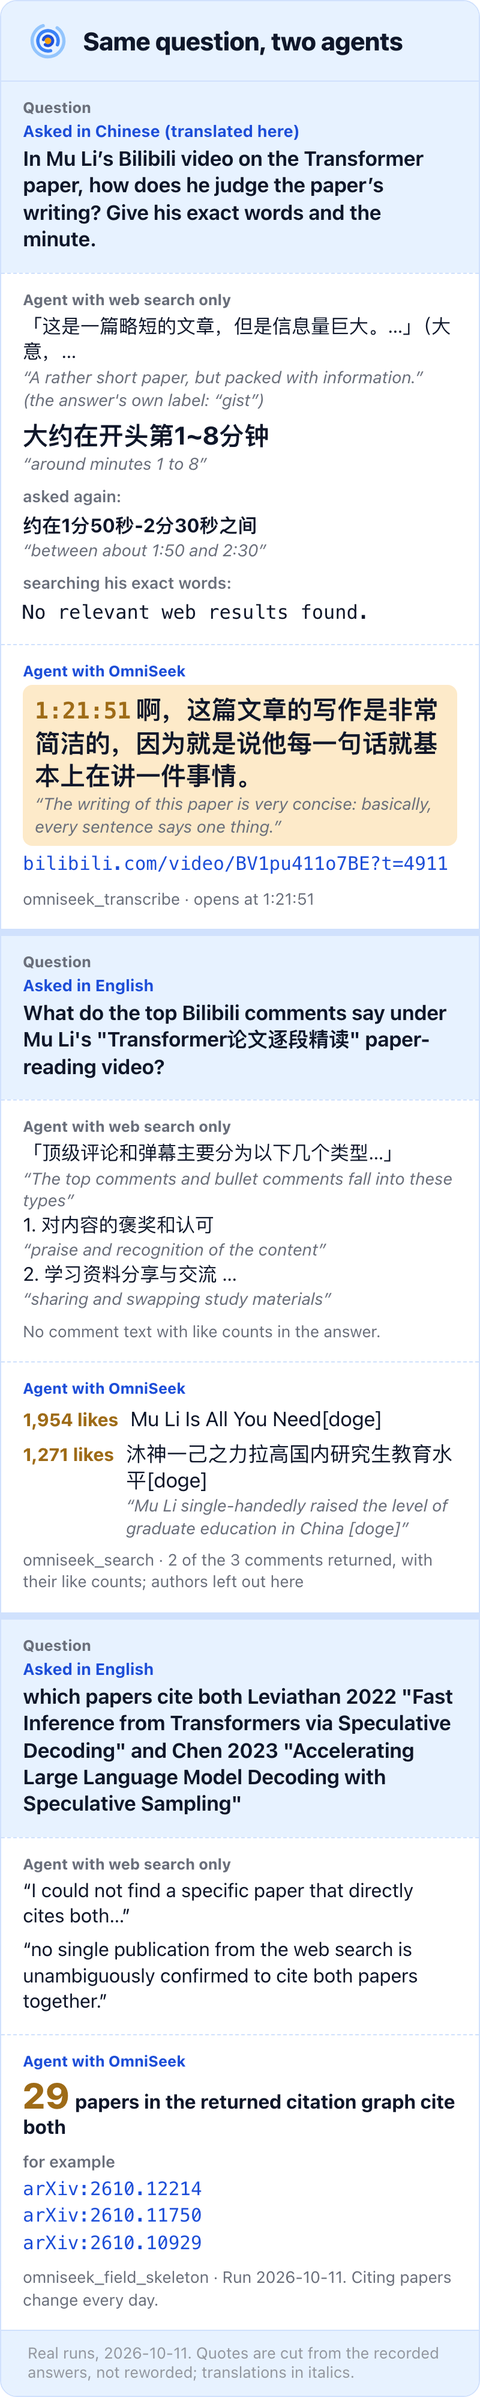
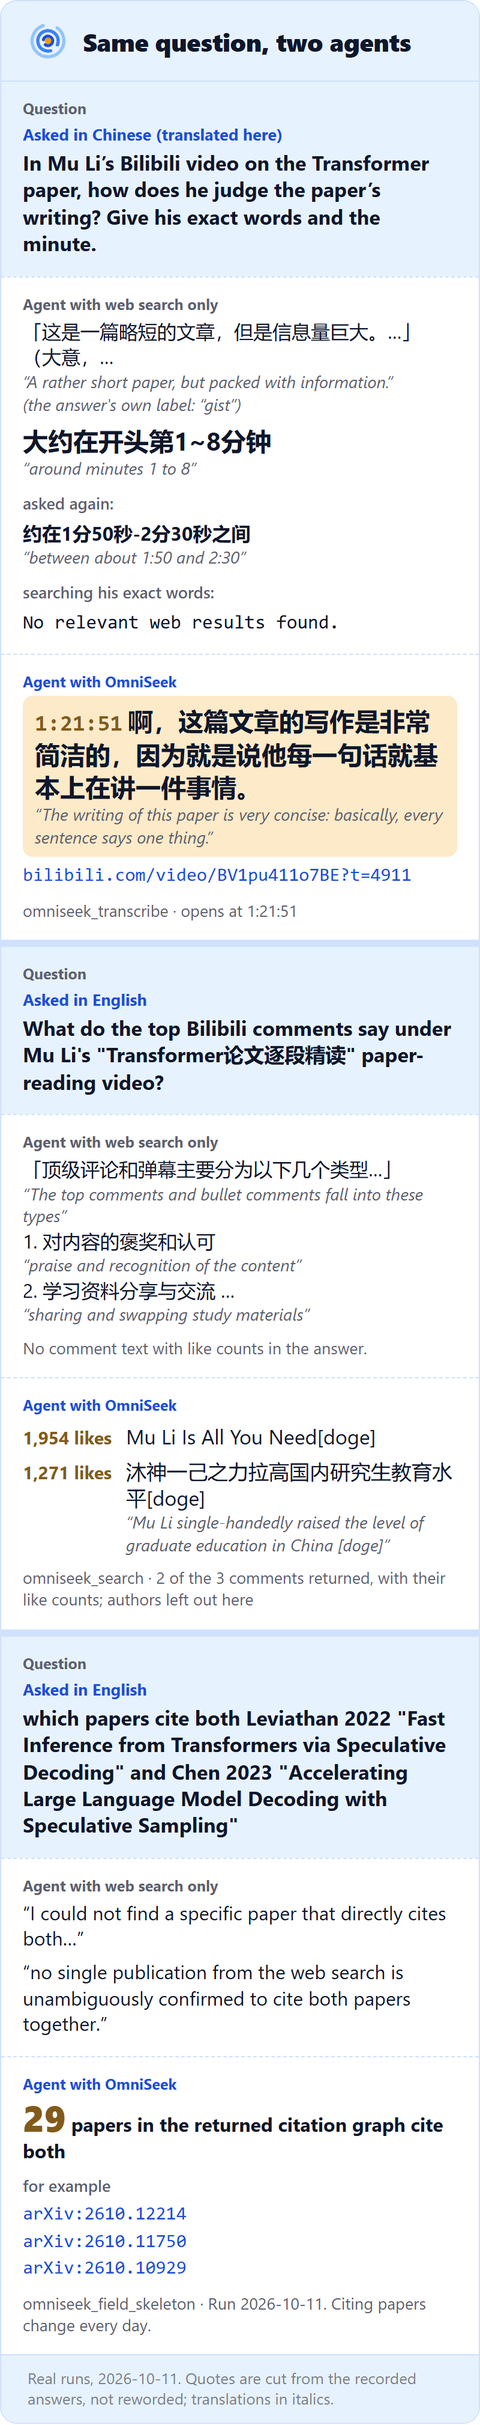
Demo figures: faint text brought up to readable contrast, measured by a script
The text the comparison GIF and the infographic set back on purpose was too faint: a step that is no
longer current was drawn at half opacity, so its small lines (the "gist" label, translations, the
calls) measured 2.01:1 on the light card and 2.81:1 on the dark one, and its answers 3.41:1 on light.
The light theme's translation on the amber highlight was 4.24:1, the amber timestamp there 3.90:1,
the install note 2.94:1 and the infographic footer 2.60:1.

assets/masters/check_contrast.py renders both generators in every storyboard state and both themes
and measures each line of text against the card under it (computed colours, opacity and
backgrounds). Floors: 4.5:1 for body text, including the main line of a step that is no longer
current (the finished frame most readers see first dims the left column's answers); 3:1 for text
meant to step back. Its first reading matched the earlier pixel measurement of the GIF (2.01 vs
1.98 light, 2.81 vs 2.74 dark).

A step that is no longer current now steps back by colour instead of opacity (--fg-dim,
--muted-dim, --fn-dim), light --muted 62% to 68% navy, --faint 45% to 55%, light amber 62% to 50%.
Lowest ratios now: light 3.53 (infographic footer, floor 3) and 4.82 (dimmed link, floor 4.5);
dark 4.04 and 4.98. Active text still reads clearly above the stepped-back text (17.9 vs 7.1 for
the main lines on light).

The generators also name the Windows fonts (Microsoft YaHei, Consolas) after the Mac ones, so a
[…]

Changed region(s): [[0.0312, 0.0, 0.9375, 0.9945], [0.5312, 0.8702, 0.8438, 0.9013], [0.875, 0.8702, 0.9375, 0.9013]]

diff --git a/site/index.html b/site/index.html
@@ -53,10 +53,10 @@
 
   <div class="figure compare" id="compare">
     <picture>
-      <source media="(prefers-color-scheme: dark) and (max-width: 600px)" srcset="https://raw.githubusercontent.com/Battam1111/omniseek/main/assets/demo/compare-table-en-dark-narrow.png?v=2026-10-11b">
-      <source media="(max-width: 600px)" srcset="https://raw.githubusercontent.com/Battam1111/omniseek/main/assets/demo/compare-table-en-light-narrow.png?v=2026-10-11b">
-      <source media="(prefers-color-scheme: dark)" srcset="https://raw.githubusercontent.com/Battam1111/omniseek/main/assets/demo/compare-table-en-dark.png?v=2026-10-11b">
-      <img src="https://raw.githubusercontent.com/Battam1111/omniseek/main/assets/demo/compare-table-en-light.png?v=2026-10-11b" loading="lazy" alt="Three questions, two agents. One: Mu Li's exact words on the Transformer paper's writing, and the minute. Web search gives a paraphrase and around minutes 1 to 8; OmniSeek quotes him at 1:21:51 with a link that opens there. Two: the top Bilibili comments under that video. Web search sorts them into types with no comment text; OmniSeek returns the comments with their like counts, 1,954 and 1,271. Three: papers that cite both Leviathan 2022 and Chen 2023 on speculative decoding. Web search could not confirm one; OmniSeek's citation graph has 29.">
+      <source media="(prefers-color-scheme: dark) and (max-width: 600px)" srcset="https://raw.githubusercontent.com/Battam1111/omniseek/main/assets/demo/compare-table-en-dark-narrow.png?v=2026-10-11d">
+      <source media="(max-width: 600px)" srcset="https://raw.githubusercontent.com/Battam1111/omniseek/main/assets/demo/compare-table-en-light-narrow.png?v=2026-10-11d">
+      <source media="(prefers-color-scheme: dark)" srcset="https://raw.githubusercontent.com/Battam1111/omniseek/main/assets/demo/compare-table-en-dark.png?v=2026-10-11d">
+      <img src="https://raw.githubusercontent.com/Battam1111/omniseek/main/assets/demo/compare-table-en-light.png?v=2026-10-11d" loading="lazy" alt="Three questions, two agents. One: Mu Li's exact words on the Transformer paper's writing, and the minute. Web search gives a paraphrase and around minutes 1 to 8; OmniSeek quotes him at 1:21:51 with a link that opens there. Two: the top Bilibili comments under that video. Web search sorts them into types with no comment text; OmniSeek returns the comments with their like counts, 1,954 and 1,271. Three: papers that cite both Leviathan 2022 and Chen 2023 on speculative decoding. Web search could not confirm one; OmniSeek's citation graph has 29.">
     </picture>
     <details class="watch">
       <summary>Watch the first question as a 38-second video</summary>

diff --git a/assets/masters/check_contrast.py b/assets/masters/check_contrast.py
@@ -1,0 +1,204 @@
+"""Contrast check for the comparison GIF/video frames and the infographic: every piece of text against
+the card it sits on, measured in the rendered page (computed colours, opacity and backgrounds, the
+way Chromium paints them), in every state of the storyboard and both themes.
+
+    python assets/masters/check_contrast.py              # report, exit 1 if anything is below its floor
+    python assets/masters/check_contrast.py --masters D  # measure the generators in directory D instead
+
+Floors (WCAG 2 contrast ratio): body text 4.5:1. Text that is meant to step back is 3:1: the steps
+that are no longer current (dimmed) except their main line, the install note under the right column,
+the "real runs" line on the end card and the infographic's footer. The main line of a dimmed step
+(the answer itself) stays at 4.5:1, because the finished frame that most readers see first dims the
+left column's answers. Text in the faded strip at the top of a column (it scrolls away) is not
+counted.
+
+Needs playwright (with its Chromium). Prints the lowest ratio per kind of text.
+"""
+import argparse
+import importlib
+import json
+import re
+import sys
+import tempfile
+from pathlib import Path
+
+HERE = Path(__file__).resolve().parent
+BODY, SOFT = 4.5, 3.0
+
+JS = r"""
+(stageSel) => {
+  const stage = document.querySelector(stageSel);
+  const out = [];
+  const walker = document.createTreeWalker(stage, NodeFilter.SHOW_TEXT);
+  const seen = new Set();
+  for (let n = walker.nextNode(); n; n = walker.nextNode()) {
+    if (!n.textContent.trim()) continue;
+    const el = n.parentElement;
+    if (seen.has(el)) continue;
+    seen.add(el);
+    const r = el.getBoundingClientRect();
+    if (r.width === 0 || r.height === 0) continue;
+    let hidden = false;
+    for (let e = el; e; e = e.parentElement) {
+      const s = getComputedStyle(e);
+      if (s.display === 'none' || s.visibility === 'hidden') { hidden = true; break; }
+    }
+    if (hidden) continue;
+    const feed = el.closest('.feed');
+    if (feed && r.bottom < feed.getBoundingClientRect().top + 34) continue;   // faded strip
+    const chain = [];
+    for (let e = el; e && e !== stage.parentElement; e = e.parentElement) {
+      const s = getComputedStyle(e);
+      chain.unshift({bg: s.backgroundColor, op: parseFloat(s.opacity)});
+    }
+    out.push({text: n.textContent.trim().slice(0, 40), color: getComputedStyle(el).color, chain,
+              tags: [...(function* () { for (let e = el; e && e !== stage; e = e.parentElement) yield (e.className || '').toString(); })()]});
+  }
+  return out;
+}
+"""
+
+
+def parse(c: str):
+    """CSS colour string from getComputedStyle -> (r, g, b, a) with r, g, b in 0..1."""
+    c = c.strip()
+    m = re.fullmatch(r"rgba?\(([^)]+)\)", c)
+    if m:
+        p = [x.strip() for x in m.group(1).replace("/", ",").split(",")]
+        r, g, b = (float(x) / 255 for x in p[:3])
+        a = float(p[3]) if len(p) > 3 else 1.0
+        return r, g, b, a
+    m = re.fullmatch(r"color\(srgb ([^)]+)\)", c)
+    if m:
+        p = m.group(1).replace("/", " ").split()
+        r, g, b = (float(x) for x in p[:3])
+        a = float(p[3]) if len(p) > 3 else 1.0
+        return r, g, b, a
+    raise ValueError(f"colour not understood: {c!r}")
+
+
+def over(src, dst):
+    a = src[3]
+    return tuple(src[i] * a + dst[i] * (1 - a) for i in range(3))
+
+
+def paint(chain, k, under, text_color):
+    """The pixel colour after painting chain[k:] over `under`; text_color None = background only."""
+    node = chain[k]
+    c = over(parse(node["bg"]), under)
+    if k == len(chain) - 1:
+        if text_color is not None:
+            c = over(parse(text_color), c)
+    else:
+        c = paint(chain, k + 1, c, text_color)
+    op = node["op"]
+    if op < 1:
+        c = tuple(c[i] * op + under[i] * (1 - op) for i in range(3))
+    return c
+
+
+def lum(c):
+    lin = [x / 12.92 if x <= 0.04045 else ((x + 0.055) / 1.055) ** 2.4 for x in c]
+    return 0.2126 * lin[0] + 0.7152 * lin[1] + 0.0722 * lin[2]
+
+
+def ratio(a, b):
+    la, lb = sorted((lum(a), lum(b)), reverse=True)
+    return (la + 0.05) / (lb + 0.05)
+
+
+SECONDARY = {"call", "lbl", "gl", "badge", "fn", "at"}
+
+
+def kind(item, page_kind):
+    classes = [t.split() for t in item["tags"]]          # the text's element first, out to the stage
+    flat = {c for cs in classes for c in cs}
+    own = next((c for cs in classes for c in cs if c not in ("mono", "h")), "text")
+    if page_kind == "table":
+        return ("soft", "footer") if "foot" in flat else ("body", own)
+    if "extra" in flat:
+        return "soft", "install note"
+    if "run" in flat:
+        return "soft", "end card: real runs"
+    step = next((i for i, cs in enumerate(classes) if "step" in cs), None)
+    if step is not None and "dim" in classes[step]:
+        if any(c in SECONDARY for cs in classes[:step] for c in cs):
+            return "soft", f"dimmed step, {own}"
+        return "body", f"dimmed step main line, {own}"
+    return "body", own
+
+
+def measure(masters: Path, langs):
+    sys.path.insert(0, str(masters))
+    D = importlib.import_module("gen_compare_demo")
+    I = importlib.import_module("gen_compare_infographic")
+    from playwright.sync_api import sync_playwright
+    worst = {}
+    with tempfile.TemporaryDirectory() as td, sync_playwright() as p:
+        b = D.browser(p)
+        for theme in ("light", "dark"):
+            page_rgb = tuple(int(D.THEMES[theme]["page"][i:i + 2], 16) / 255 for i in (1, 3, 5))
+            for lang in langs:
+                if lang not in D.T:
+                    continue
+                ctx = b.new_context(viewport={"width": D.W + 20, "height": D.GIF_H + 20})
+                pg = ctx.new_page()
+                f = Path(td) / "demo.html"
+                f.write_text(D.page_html(lang, theme, D.W, D.GIF_H, False), encoding="utf-8")
+                pg.goto(f.as_uri())
+                pg.wait_for_timeout(300)
+                for i, (st, _) in enumerate(D.plan(False)):
+                    pg.evaluate(D.APPLY, [st, D.T[lang]["cap"]])
+                    for item in pg.evaluate(JS, "#stage"):
+                        bg = paint(item["chain"], 0, page_rgb, None)
+                        fg = paint(item["chain"], 0, page_rgb, item["color"])
+                        k, label = kind(item, "demo")
+                        r = ratio(fg, bg)
+                        key = ("demo", theme, k, label)
+                        if key not in worst or r < worst[key][0]:
+                            worst[key] = (r, item["text"], f"{lang} state {i}")
+                ctx.close()
+                if lang not in I.T:
+                    continue
+                ctx = b.new_context(viewport={"width": I.WIDE + 20, "height": 800})
+                pg = ctx.new_page()
+                f = Path(td) / "table.html"
+                f.write_text(I.page(lang, theme, I.WIDE, False), encoding="utf-8")
+                pg.goto(f.as_uri())
+                pg.wait_for_timeout(300)
+                for item in pg.evaluate(JS, "#stage"):
+                    bg = paint(item["chain"], 0, page_rgb, None)
+                    fg = paint(item["chain"], 0, page_rgb, item["color"])
+                    k, label = kind(item, "table")
+                    r = ratio(fg, bg)
+                    key = ("table", theme, k, label)
+                    if key not in worst or r < worst[key][0]:
+                        worst[key] = (r, item["text"], lang)
+                ctx.close()
+        b.close()
+    return worst
+
+
+def main():
+    ap = argparse.ArgumentParser()
+    ap.add_argument("--masters", type=Path, default=HERE)
+    ap.add_argument("--json", type=Path)
+    ap.add_argument("--langs", default="en,zh,ja")
+    a = ap.parse_args()
+    worst = measure(a.masters.resolve(), a.langs.split(","))
+    bad = 0
+    print(f"{'figure':6} {'theme':5} {'kind':4} {'floor':>5} {'lowest':>6}  text kind (where)")
+    for (fig, theme, k, label), (r, text, where) in sorted(worst.items(), key=lambda kv: (kv[0][0], kv[0][1], kv[1][0])):
+        floor = BODY if k == "body" else SOFT
+        ok = r >= floor
+        bad += not ok
+        print(f"{fig:6} {theme:5} {k:4} {floor:5.1f} {r:6.2f}{'' if ok else ' LOW'}  {label}: {text!r} ({where})")
+    if a.json:
+        a.json.write_text(json.dumps({" | ".join(k): v for k, v in worst.items()}, ensure_ascii=False, indent=1),
+                          encoding="utf-8")
+    print(f"\n{bad} below the floor" if bad else "\nall text at or above its floor")
+    return 1 if bad else 0
+
+
+if __name__ == "__main__":
+    sys.exit(main())

diff --git a/assets/masters/gen_compare_demo.py b/assets/masters/gen_compare_demo.py
@@ -213,8 +213,11 @@ THEMES = {
   --bar: color-mix(in srgb, #93C5FD 22%, #FFFFFF);
   --line: color-mix(in srgb, #3B82F6 24%, #FFFFFF);
   --fg: #0F172A;
-  --muted: color-mix(in srgb, #0F172A 62%, #FFFFFF);
-  --faint: color-mix(in srgb, #0F172A 45%, #FFFFFF);
+  --muted: color-mix(in srgb, #0F172A 68%, #FFFFFF);
+  --faint: color-mix(in srgb, #0F172A 55%, #FFFFFF);
+  --fg-dim: color-mix(in srgb, #0F172A 72%, #FFFFFF);
+  --muted-dim: color-mix(in srgb, #0F172A 52%, #FFFFFF);
+  --fn-dim: color-mix(in srgb, #1D4ED8 84%, #FFFFFF);
   --fn: #1D4ED8;
   --hl: color-mix(in srgb, #F59E0B 22%, #FFFFFF);
   --amber: #B45309;
@@ -228,15 +231,19 @@ THEMES = {
   --fg: color-mix(in srgb, #FFFFFF 94%, #0F172A);
   --muted: color-mix(in srgb, #FFFFFF 64%, #0F172A);
   --faint: color-mix(in srgb, #FFFFFF 48%, #0F172A);
+  --fg-dim: color-mix(in srgb, #FFFFFF 64%, #0F172A);
+  --muted-dim: color-mix(in srgb, #FFFFFF 46%, #0F172A);
+  --fn-dim: color-mix(in srgb, #93C5FD 70%, #0F172A);
   --fn: #93C5FD;
   --hl: color-mix(in srgb, #F59E0B 24%, #0F172A);
   --amber: #F59E0B;
   --badge: color-mix(in srgb, #3B82F6 22%, #0F172A);
   --ring3: #2563EB;"""},
 }
-# --amber on light pages is the brand amber mixed toward navy for contrast on white.
+# --amber on light pages is the brand amber mixed toward navy for contrast on white and on the
+# amber highlight (at least 4.5:1, see check_contrast.py).
 THEMES["light"]["css"] = THEMES["light"]["css"].replace(
-    "--amber: #B45309;", "--amber: color-mix(in srgb, #F59E0B 62%, #0F172A);")
+    "--amber: #B45309;", "--amber: color-mix(in srgb, #F59E0B 50%, #0F172A);")
 
 MARK = """<svg viewBox="0 0 200 200" xmlns="http://www.w3.org/2000/svg">
   <circle cx="100" cy="100" r="78" fill="none" stroke="#93C5FD" stroke-width="16" stroke-linecap="round" stroke-dasharray="416 74" transform="rotate(-55 100 100)"/>
@@ -254,9 +261,9 @@ html, body {{ background:transparent; }}
 #stage {{ {css}
   position:relative; width:{w}px; height:{h}px; background:var(--bg); border:1px solid var(--line);
   border-radius:14px; overflow:hidden; display:flex; flex-direction:column; color:var(--fg);
-  font-family:-apple-system,BlinkMacSystemFont,"SF Pro Text","Segoe UI","Helvetica Neue",Arial,"PingFang SC","Hiragino Sans GB",sans-serif;
+  font-family:-apple-system,BlinkMacSystemFont,"SF Pro Text","Segoe UI","Helvetica Neue",Arial,"PingFang SC","Hiragino Sans GB","Microsoft YaHei",sans-serif;
   -webkit-font-smoothing:antialiased; }}
-.mono {{ font-family:ui-monospace,"SF Mono",Menlo,"PingFang SC",monospace; }}
+.mono {{ font-family:ui-monospace,"SF Mono",Menlo,Consolas,"PingFang SC","Microsoft YaHei",monospace; }}
 .q {{ padding:14px 18px 12px; border-bottom:1px solid var(--line); }}
 .q .ask {{ font-size:15px; color:var(--muted); font-weight:600; }}
 .q .text {{ font-size:{qsize}px; font-weight:700; line-height:1.28; margin-top:3px; letter-spacing:-.005em; }}
@@ -270,7 +277,9 @@ html, body {{ background:transparent; }}
   justify-content:flex-end; padding:6px 14px 10px;
   -webkit-mask-image:linear-gradient(to bottom, transparent 0, #000 34px); }}
 .step {{ margin-top:10px; transition:none; }}
-.step.dim {{ opacity:.5; }}
+/* A step that is no longer current steps back by colour, not opacity: its main line stays at
+   4.5:1 or more and its smaller lines at 3:1 or more against the card (check_contrast.py). */
+.step.dim {{ --fg:var(--fg-dim); --muted:var(--muted-dim); --fn:var(--fn-dim); color:var(--fg); }}
 .call {{ font-size:15px; color:var(--muted); line-height:1.35; overflow-wrap:anywhere; }}
 .call .fn {{ color:var(--fn); font-weight:650; }}
 .lbl {{ font-size:16px; color:var(--muted); font-weight:600; }}

diff --git a/assets/masters/gen_compare_infographic.py b/assets/masters/gen_compare_infographic.py
@@ -74,8 +74,8 @@ html, body { background:transparent; }
 #stage { %(theme)s
   width:%(w)spx; background:var(--bg); border:1px solid var(--line); border-radius:14px; overflow:hidden;
   color:var(--fg); -webkit-font-smoothing:antialiased;
-  font-family:-apple-system,BlinkMacSystemFont,"SF Pro Text","Segoe UI","Helvetica Neue",Arial,"PingFang SC","Hiragino Sans GB",sans-serif; }
-.mono { font-family:ui-monospace,"SF Mono",Menlo,"PingFang SC",monospace; }
+  font-family:-apple-system,BlinkMacSystemFont,"SF Pro Text","Segoe UI","Helvetica Neue",Arial,"PingFang SC","Hiragino Sans GB","Microsoft YaHei",sans-serif; }
+.mono { font-family:ui-monospace,"SF Mono",Menlo,Consolas,"PingFang SC","Microsoft YaHei",monospace; }
 .top { display:flex; align-items:center; gap:12px; padding:16px 22px; border-bottom:1px solid var(--line); background:var(--bar); }
 .top svg { width:34px; height:34px; }
 .top h1 { font-size:24px; font-weight:800; letter-spacing:-.01em; }

diff --git a/docs/compare.zh.md b/docs/compare.zh.md
@@ -3,13 +3,13 @@
 2026-10-11，我们把同样三个问题分别问了两个 Agent：一个只有自带的网页搜索，一个装了 OmniSeek。下面每一句引文都从记录下来的回答里原样截取，没有改写。
 
 <p align="center">
-  <a href="https://raw.githubusercontent.com/Battam1111/omniseek/main/assets/demo/compare-table-zh-light.png?v=2026-10-11b#gh-light-mode-only"><picture>
-    <source media="(max-width: 600px)" srcset="https://raw.githubusercontent.com/Battam1111/omniseek/main/assets/demo/compare-table-zh-light-narrow.png?v=2026-10-11b#gh-light-mode-only">
-    <img src="https://raw.githubusercontent.com/Battam1111/omniseek/main/assets/demo/compare-table-zh-light.png?v=2026-10-11b#gh-light-mode-only" width="1200" alt="三个问题，两个 Agent。第一题：李沐评价 Transformer 论文写作的原话和分钟。网页搜索给出大意和大约在开头第 1 到 8 分钟；OmniSeek 找到原话在 1:21:51，附从这一秒打开的链接。第二题：这个视频下的 B 站热评。网页搜索只归纳了几类，没有评论原文；OmniSeek 返回评论原文和点赞数，1,954 与 1,271。第三题：同时引用 Leviathan 2022 和 Chen 2023 这两篇推测解码论文的有哪些。网页搜索确认不了一篇；OmniSeek 的引用图里有 29 篇。">
+  <a href="https://raw.githubusercontent.com/Battam1111/omniseek/main/assets/demo/compare-table-zh-light.png?v=2026-10-11d#gh-light-mode-only"><picture>
+    <source media="(max-width: 600px)" srcset="https://raw.githubusercontent.com/Battam1111/omniseek/main/assets/demo/compare-table-zh-light-narrow.png?v=2026-10-11d#gh-light-mode-only">
+    <img src="https://raw.githubusercontent.com/Battam1111/omniseek/main/assets/demo/compare-table-zh-light.png?v=2026-10-11d#gh-light-mode-only" width="1200" alt="三个问题，两个 Agent。第一题：李沐评价 Transformer 论文写作的原话和分钟。网页搜索给出大意和大约在开头第 1 到 8 分钟；OmniSeek 找到原话在 1:21:51，附从这一秒打开的链接。第二题：这个视频下的 B 站热评。网页搜索只归纳了几类，没有评论原文；OmniSeek 返回评论原文和点赞数，1,954 与 1,271。第三题：同时引用 Leviathan 2022 和 Chen 2023 这两篇推测解码论文的有哪些。网页搜索确认不了一篇；OmniSeek 的引用图里有 29 篇。">
   </picture></a>
-  <a href="https://raw.githubusercontent.com/Battam1111/omniseek/main/assets/demo/compare-table-zh-dark.png?v=2026-10-11b#gh-dark-mode-only"><picture>
-    <source media="(max-width: 600px)" srcset="https://raw.githubusercontent.com/Battam1111/omniseek/main/assets/demo/compare-table-zh-dark-narrow.png?v=2026-10-11b#gh-dark-mode-only">
-    <img src="https://raw.githubusercontent.com/Battam1111/omniseek/main/assets/demo/compare-table-zh-dark.png?v=2026-10-11b#gh-dark-mode-only" width="1200" alt="三个问题，两个 Agent。第一题：李沐评价 Transformer 论文写作的原话和分钟。网页搜索给出大意和大约在开头第 1 到 8 分钟；OmniSeek 找到原话在 1:21:51，附从这一秒打开的链接。第二题：这个视频下的 B 站热评。网页搜索只归纳了几类，没有评论原文；OmniSeek 返回评论原文和点赞数，1,954 与 1,271。第三题：同时引用 Leviathan 2022 和 Chen 2023 这两篇推测解码论文的有哪些。网页搜索确认不了一篇；OmniSeek 的引用图里有 29 篇。">
+  <a href="https://raw.githubusercontent.com/Battam1111/omniseek/main/assets/demo/compare-table-zh-dark.png?v=2026-10-11d#gh-dark-mode-only"><picture>
+    <source media="(max-width: 600px)" srcset="https://raw.githubusercontent.com/Battam1111/omniseek/main/assets/demo/compare-table-zh-dark-narrow.png?v=2026-10-11d#gh-dark-mode-only">
+    <img src="https://raw.githubusercontent.com/Battam1111/omniseek/main/assets/demo/compare-table-zh-dark.png?v=2026-10-11d#gh-dark-mode-only" width="1200" alt="三个问题，两个 Agent。第一题：李沐评价 Transformer 论文写作的原话和分钟。网页搜索给出大意和大约在开头第 1 到 8 分钟；OmniSeek 找到原话在 1:21:51，附从这一秒打开的链接。第二题：这个视频下的 B 站热评。网页搜索只归纳了几类，没有评论原文；OmniSeek 返回评论原文和点赞数，1,954 与 1,271。第三题：同时引用 Leviathan 2022 和 Chen 2023 这两篇推测解码论文的有哪些。网页搜索确认不了一篇；OmniSeek 的引用图里有 29 篇。">
   </picture></a>
 </p>
 

diff --git a/docs/compare.md b/docs/compare.md
@@ -3,13 +3,13 @@
 On 2026-10-11 we asked two agents the same three questions: one with only its built-in web search, one with OmniSeek added. Every quote below is cut from the recorded answers, not reworded.
 
 <p align="center">
-  <a href="https://raw.githubusercontent.com/Battam1111/omniseek/main/assets/demo/compare-table-en-light.png?v=2026-10-11b#gh-light-mode-only"><picture>
-    <source media="(max-width: 600px)" srcset="https://raw.githubusercontent.com/Battam1111/omniseek/main/assets/demo/compare-table-en-light-narrow.png?v=2026-10-11b#gh-light-mode-only">
-    <img src="https://raw.githubusercontent.com/Battam1111/omniseek/main/assets/demo/compare-table-en-light.png?v=2026-10-11b#gh-light-mode-only" width="1200" alt="Three questions, two agents. One: Mu Li's exact words on the Transformer paper's writing, and the minute. Web search gives a paraphrase and around minutes 1 to 8; OmniSeek quotes him at 1:21:51 with a link that opens there. Two: the top Bilibili comments under that video. Web search sorts them into types with no comment text; OmniSeek returns the comments with their like counts, 1,954 and 1,271. Three: papers that cite both Leviathan 2022 and Chen 2023 on speculative decoding. Web search could not confirm one; OmniSeek's citation graph has 29.">
+  <a href="https://raw.githubusercontent.com/Battam1111/omniseek/main/assets/demo/compare-table-en-light.png?v=2026-10-11d#gh-light-mode-only"><picture>
+    <source media="(max-width: 600px)" srcset="https://raw.githubusercontent.com/Battam1111/omniseek/main/assets/demo/compare-table-en-light-narrow.png?v=2026-10-11d#gh-light-mode-only">
+    <img src="https://raw.githubusercontent.com/Battam1111/omniseek/main/assets/demo/compare-table-en-light.png?v=2026-10-11d#gh-light-mode-only" width="1200" alt="Three questions, two agents. One: Mu Li's exact words on the Transformer paper's writing, and the minute. Web search gives a paraphrase and around minutes 1 to 8; OmniSeek quotes him at 1:21:51 with a link that opens there. Two: the top Bilibili comments under that video. Web search sorts them into types with no comment text; OmniSeek returns the comments with their like counts, 1,954 and 1,271. Three: papers that cite both Leviathan 2022 and Chen 2023 on speculative decoding. Web search could not confirm one; OmniSeek's citation graph has 29.">
   </picture></a>
-  <a href="https://raw.githubusercontent.com/Battam1111/omniseek/main/assets/demo/compare-table-en-dark.png?v=2026-10-11b#gh-dark-mode-only"><picture>
-    <source media="(max-width: 600px)" srcset="https://raw.githubusercontent.com/Battam1111/omniseek/main/assets/demo/compare-table-en-dark-narrow.png?v=2026-10-11b#gh-dark-mode-only">
-    <img src="https://raw.githubusercontent.com/Battam1111/omniseek/main/assets/demo/compare-table-en-dark.png?v=2026-10-11b#gh-dark-mode-only" width="1200" alt="Three questions, two agents. One: Mu Li's exact words on the Transformer paper's writing, and the minute. Web search gives a paraphrase and around minutes 1 to 8; OmniSeek quotes him at 1:21:51 with a link that opens there. Two: the top Bilibili comments under that video. Web search sorts them into types with no comment text; OmniSeek returns the comments with their like counts, 1,954 and 1,271. Three: papers that cite both Leviathan 2022 and Chen 2023 on speculative decoding. Web search could not confirm one; OmniSeek's citation graph has 29.">
+  <a href="https://raw.githubusercontent.com/Battam1111/omniseek/main/assets/demo/compare-table-en-dark.png?v=2026-10-11d#gh-dark-mode-only"><picture>
+    <source media="(max-width: 600px)" srcset="https://raw.githubusercontent.com/Battam1111/omniseek/main/assets/demo/compare-table-en-dark-narrow.png?v=2026-10-11d#gh-dark-mode-only">
+    <img src="https://raw.githubusercontent.com/Battam1111/omniseek/main/assets/demo/compare-table-en-dark.png?v=2026-10-11d#gh-dark-mode-only" width="1200" alt="Three questions, two agents. One: Mu Li's exact words on the Transformer paper's writing, and the minute. Web search gives a paraphrase and around minutes 1 to 8; OmniSeek quotes him at 1:21:51 with a link that opens there. Two: the top Bilibili comments under that video. Web search sorts them into types with no comment text; OmniSeek returns the comments with their like counts, 1,954 and 1,271. Three: papers that cite both Leviathan 2022 and Chen 2023 on speculative decoding. Web search could not confirm one; OmniSeek's citation graph has 29.">
   </picture></a>
 </p>
 

diff --git a/docs/BRAND.md b/docs/BRAND.md
@@ -68,6 +68,7 @@ The SVG masters are the single source of truth for the mark; the logo and social
 - `assets/demo/compare-{en,zh}-{light,dark}.gif`: the comparison GIF, one real question put to an agent with web search only and to an agent with OmniSeek, side by side. The READMEs show it under "See the difference" (English and Japanese use `en`, Chinese uses `zh`) and the site home page shows the English one, switched by theme (see Rules for how). `-narrow` versions stack the two columns for screens under 480 px wide. Frame 0 is the finished comparison (both answers, 1:21:51 highlighted, no end card) for 3 seconds, because GitHub, PyPI, screenshots, thumbnails and reduced-motion readers often show only the first frame; then it replays from the question with each agent's first call already on screen, so no frame shows two empty columns. Every line on screen comes from the recorded run in `assets/masters/compare-demo-run.json` (and `compare-demo-transcript.json` for the transcript lines); `assets/masters/gen_compare_demo.py` renders them (`gif` for the GIFs, `all` also for the videos and posters). Re-render instead of editing frames.
 - `assets/demo/compare-{en,zh}-dark.mp4` and `compare-{en,zh}-dark-poster.png`: the same run as a 38-second video, which also shows the video player opened at the quoted minute; linked from `docs/compare.md` and `docs/compare.zh.md` and played in a fold on the site home page; same script.
 - `assets/demo/compare-table-{en,zh}-{light,dark}.png` and `-narrow` versions: the infographic of all three recorded questions, in `docs/compare.md`, `docs/compare.zh.md` and on the site home page (narrow under 600 px); rendered by `assets/masters/gen_compare_infographic.py` from the same record, quotes cut verbatim.
+- `assets/masters/check_contrast.py`: measures every line of text in the comparison GIF (all storyboard states) and the infographic, both themes, against the card it sits on, and exits non-zero below the floors in Rules. Run it after changing a colour in either generator.
 - `assets/terminal-demo-{light,dark}.gif`: the earlier README terminal recording (one real run searching Zhihu and Bilibili, saved in `assets/masters/terminal-demo-run.json`, rendered by `assets/masters/gen_terminal_demo.py`). The comparison GIF replaced it in the READMEs and on the site; the files stay in the repo for reference.
 - `assets/social-preview.png`: the 1280x640 link-share card; generated and rendered by `assets/masters/gen_social.py`. Upload under Settings > General > Social preview; committing it does not apply it.
 - `bench/funnel-s3/funnel-{light,dark}.svg`: the S3 rebuild funnel figure; rendered by `bench/funnel-s3/render_funnel.py` with the same palette tokens as the results chart.
@@ -75,6 +76,7 @@ The SVG masters are the single source of truth for the mark; the logo and social
 ## Rules
 
 - All shields.io badges use color `3B82F6` and `style=flat-square`.
+- Text in the demo figures (comparison GIFs, videos, infographic) has a contrast ratio of at least 4.5:1 against the card it sits on; text that is meant to step back (a step that is no longer current, except its main line; the install note; the "real runs" lines) at least 3:1. A step that is no longer current steps back by colour, not by opacity. `assets/masters/check_contrast.py` measures it.
 - No em-dash on any human-facing surface (CI-enforced by `scripts/brand_lint.py`).
 - Every README or site page that loads a brand image from raw.githubusercontent.com ends the URL with `?v=YYYY-MM-DD` (CI-enforced by `scripts/brand_lint.py`). GitHub's image proxy keeps showing the old picture under an unchanged URL, so when you re-render an image, set the date to the day of the re-render in every URL that points at it. A second re-render on a day that already has a version adds one lowercase letter: `?v=2026-10-11b`, then `c`.
 - On GitHub pages (the READMEs, `docs/compare.md`, `docs/compare.zh.md`), an image that comes in a light and a dark version follows the theme the reader picked on GitHub, not the computer's: one `<picture>` per theme, each inside a link, every URL ending in the theme fragment after the version:
